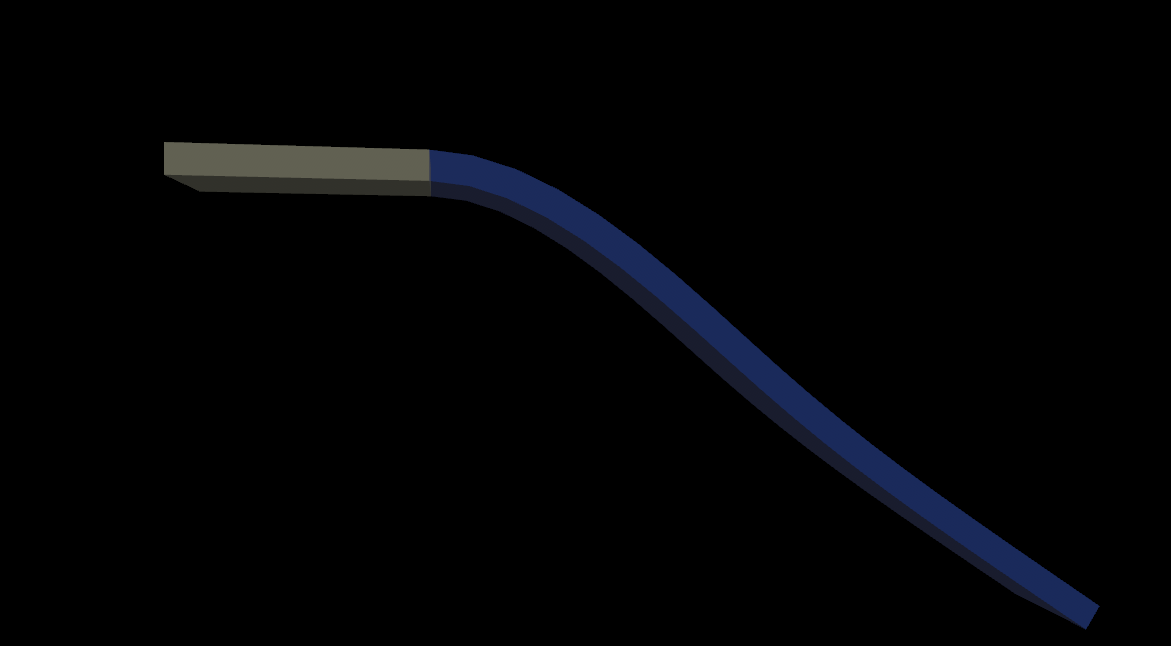
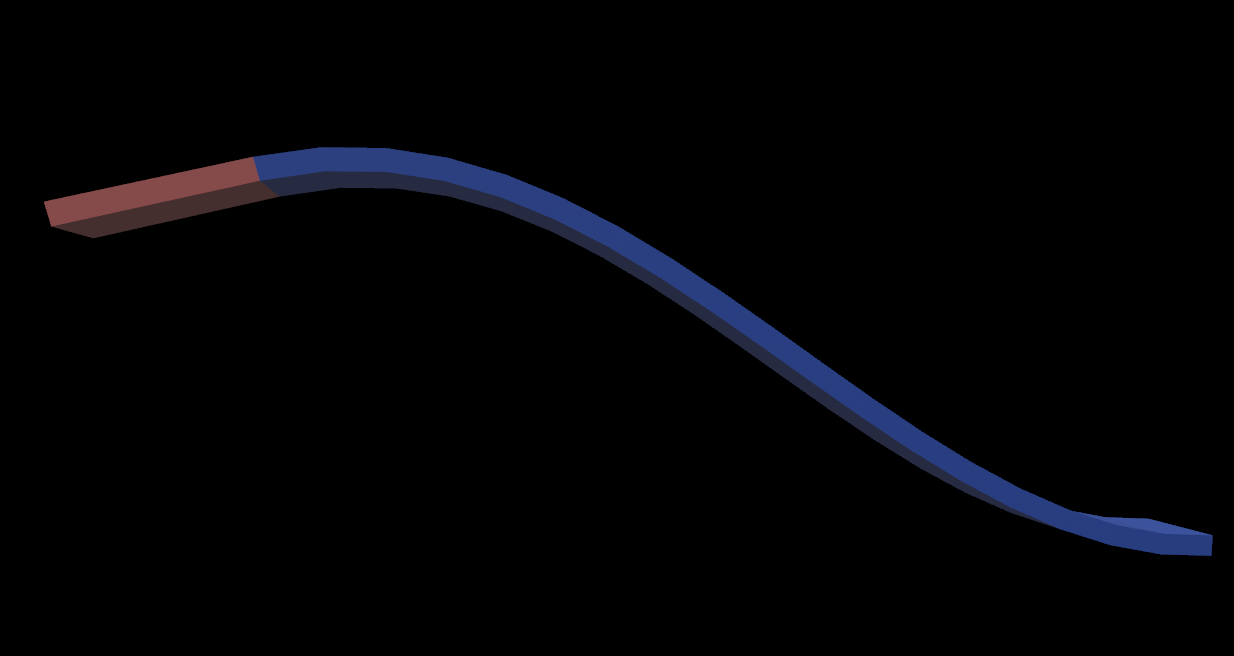
edit examples

Changed region(s): [[0.0307, 0.2167, 0.9838, 0.9907]]

diff --git a/examples/connect.rs b/examples/connect.rs
@@ -1,0 +1,116 @@
+// An example demonstrating the connection of a track and a cuboid
+
+use bevy::{
+    camera_controller::free_camera::{FreeCamera, FreeCameraPlugin},
+    color::palettes::css,
+    prelude::*
+};
+use bevy_procedural_track::{profile::{EpBox}, track_mesh };
+fn main () {
+    App::new()
+        .insert_resource(ClearColor(Color::BLACK))
+        .add_plugins((
+            DefaultPlugins,
+            FreeCameraPlugin,
+        ))
+        .add_systems(Startup, (env, create_track).chain())
+        .run();
+
+}
+
+// ---
+
+#[derive(Component)]
+struct Socket{
+    position: Vec3,
+    normal: Vec3
+}
+
+fn env(
+    mut cmd: Commands,
+    mut meshes: ResMut<Assets<Mesh>>,
+    mut materials: ResMut<Assets<StandardMaterial>>
+) {
+    cmd.spawn((
+        DirectionalLight{
+            illuminance: 18e2,
+            color: Color::WHITE,
+            shadow_maps_enabled: true,
+            ..default()
+        },
+        Transform::from_xyz(1.0, 2.0, 1.0).looking_at(Vec3::ZERO, Vec3::Y)
+    ));
+
+    cmd.spawn((
+        Camera3d::default(),
+        Camera::default(),
+        FreeCamera::default(),
+        Transform::from_xyz(20., 5., 14.).looking_to(-Vec3::X , Vec3::Y),
+        AmbientLight {brightness: 100., ..default()},
+    ));
+
+    let position = vec3(0., 8., 20.);
+    let dimension = vec3(2., 0.5, 4.);
+
+    // For example, here's a cuboid. Let's add a component to it that contains information about the position and normal of the connection point.
+    cmd.spawn((
+        Transform::from_translation(position).with_rotation(Quat::from_rotation_x(15.0_f32.to_radians())),
+        Mesh3d(meshes.add(Cuboid::from_size(dimension))),
+        MeshMaterial3d(materials.add(Color::from(css::LIGHT_CORAL))),
+        Socket {
+            position: -Vec3::Z * 0.5 * dimension.z,
+            normal: -Vec3::Z
+        }
+    ));
+}
+
+// ---
+
+fn create_track(
+    mut cmd: Commands,
+    mut meshes: ResMut<Assets<Mesh>>,
+    mut materials: ResMut<Assets<StandardMaterial>>,
+    ct: Single<(&Socket, &Transform)>
+) {
+    let (socket, transform) = ct.into_inner();
+    let start_pos = vec3(1., 0., -4.);
+    let start_velocity = Vec3::Z;
+    let velocity_magnitude = 25.;
+
+    let end_pos = transform.translation + transform.rotation.mul_vec3(socket.position);
+    let end_velocity = transform.rotation.mul_vec3(-socket.normal).normalize();
+    let spline = CubicHermite::new(vec![start_pos, end_pos], vec![start_velocity * velocity_magnitude, end_velocity * velocity_magnitude ]).to_curve().unwrap();
+
+    // cmd.spawn((
+    //     Mesh3d(
+    //         meshes.add(Polyline3d::new(
+    //             spline.iter_positions(100)
+    //         )),
+    //     ),
+    //     MeshMaterial3d(
+    //         materials.add(StandardMaterial {
+    //             emissive: LinearRgba::from(Color::from(css::BLUE_VIOLET)),
+    //             ..default()
+    //         })
+    //     )
+    // ));
+
+
+    let sub_div = 18;
+    let points = spline.iter_positions(sub_div)
+        .zip(spline.iter_velocities(sub_div))
+        .map(| ( p, v ) | ( p, v.normalize().cross(Vec3::Y).normalize() ))
+        .collect::<Vec<_>>()
+    ;
+
+    // Now we'll generate a mesh for the track. It's important for us that the normal of its end matches the normal of the connection point.
+    let mesh = track_mesh(&points, EpBox{half_width: 1.,half_height: 0.25}, None, Some(end_velocity));
+    let mesh = meshes.add(mesh);
+    let mesh_mat = materials.add(Color::from(css::ROYAL_BLUE));
+
+    cmd.spawn((
+        Mesh3d(mesh.clone()),
+        MeshMaterial3d(mesh_mat.clone()),
+    ));
+
+}